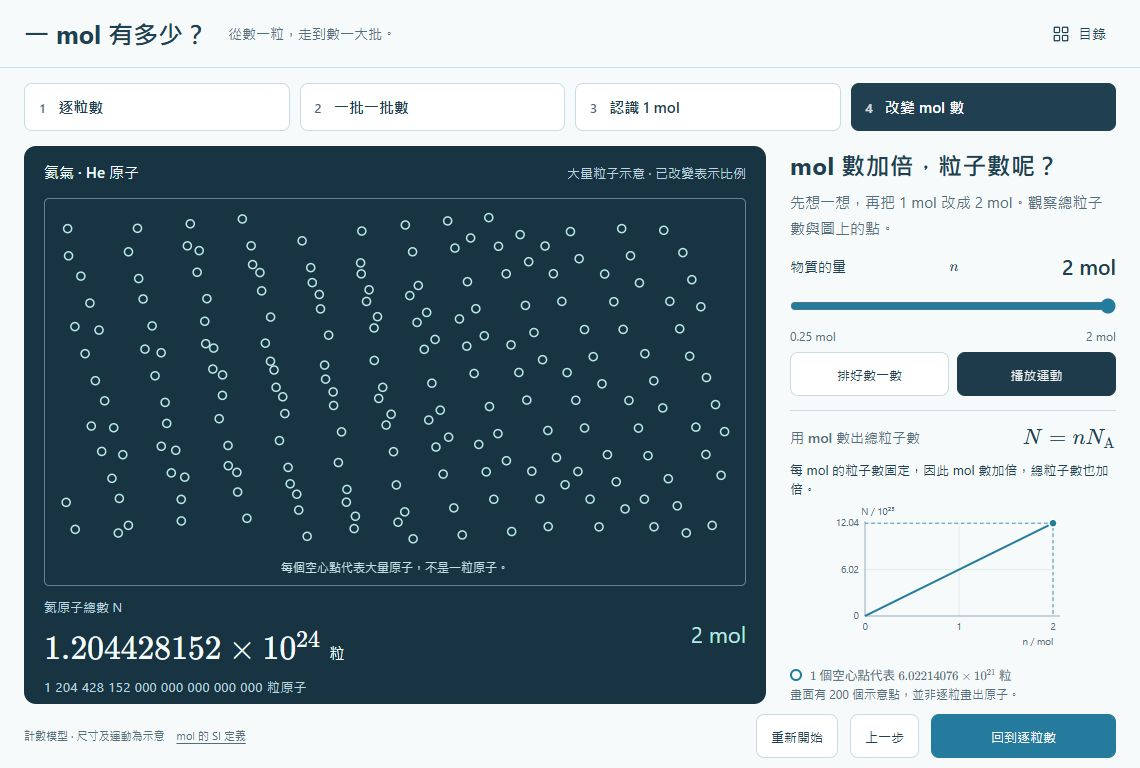
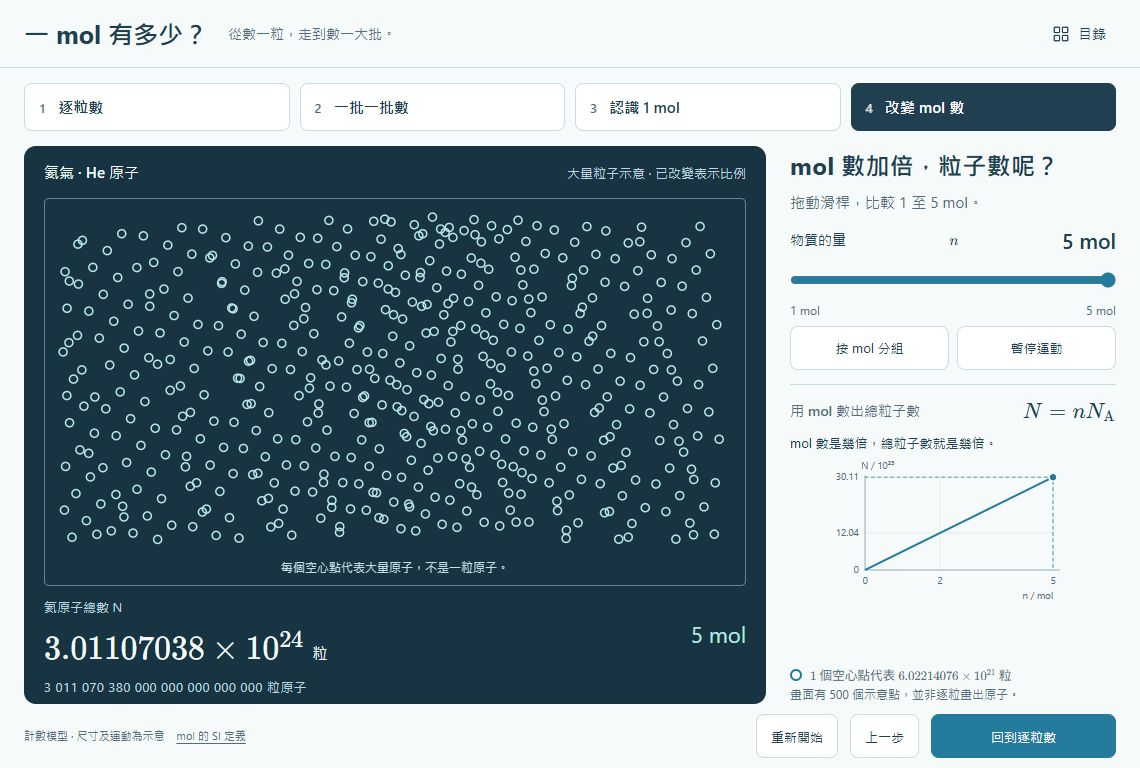
feat(gas-mole): 加入粒子分組並擴展至 5 mol

diff --git a/gas-mole/app.js b/gas-mole/app.js
@@ -5,12 +5,12 @@
   const canvas = $('gas');
   const ctx = canvas.getContext('2d');
   const reduced = matchMedia('(prefers-reduced-motion: reduce)');
-  const state = { step: 0, atoms: 6, dozens: 1, quarters: 4, arranged: false, paused: reduced.matches, particles: [] };
+  const state = { step: 0, atoms: 6, dozens: 1, moles: 1, arranged: false, paused: reduced.matches, particles: [] };
   const lessons = [
     { title: '先數清楚：有多少粒？', intro: '加入一粒氦原子，看看總數怎樣變。原子一直在動，試試把它們排好。', evidence: '每加入一粒，總數加一', text: '這裏數的是氦原子。每一粒都算一次，不論它在哪裏、怎樣移動。', next: '試試一批一批數' },
-    { title: '換一種數法：每打 12 粒', intro: '逐粒數太慢，可以每 12 粒算一打。加入一打，總數增加多少？', evidence: '每一批的數量固定', text: '「打」是計數單位。2 打就是 2 批，每批 12 粒，共 24 粒。', next: '把一批換成 1 mol' },
+    { title: '換一種數法：每打 12 粒', intro: '每 12 粒是一打。加入一打，觀察總數；也可切換分組計數。', evidence: '每一批的數量固定', text: '「打」是計數單位。2 打就是 2 批，每批 12 粒，共 24 粒。', next: '把一批換成 1 mol' },
     { title: '很大的一批，叫做 1 mol', intro: '氣體的原子數極大。科學上用摩爾（mol）表示物質的量，按固定的粒子數計算。', evidence: '1 mol 的定義', text: '1 mol 氦氣，恰好含有這麼多粒氦原子。這是單位的定義，數值是精確的。', next: '改變 mol 數看看' },
-    { title: 'mol 數加倍，粒子數呢？', intro: '先想一想，再把 1 mol 改成 2 mol。觀察總粒子數與圖上的點。', evidence: '用 mol 數出總粒子數', text: '每 mol 的粒子數固定，因此 mol 數加倍，總粒子數也加倍。', next: '回到逐粒數' }
+    { title: 'mol 數加倍，粒子數呢？', intro: '拖動滑桿，比較 1 至 5 mol。', evidence: '用 mol 數出總粒子數', text: 'mol 數是幾倍，總粒子數就是幾倍。', next: '回到逐粒數' }
   ];
   let current, frame, lastTime, width = 1, height = 1;
 
@@ -29,10 +29,10 @@
   }
 
   function render() {
-    current = M.snapshot(state.step, state.atoms, state.dozens, state.quarters);
+    current = M.snapshot(state.step, state.atoms, state.dozens, state.moles);
     syncParticles();
     const lesson = lessons[state.step];
-    document.querySelectorAll('[data-step]').forEach(button => {
+    document.querySelectorAll('.steps [data-step]').forEach(button => {
       const active = Number(button.dataset.step) === state.step;
       button.setAttribute('aria-pressed', String(active));
       if (active) button.setAttribute('aria-current', 'step');
@@ -54,9 +54,9 @@
     $('remove').textContent = state.step === 0 ? '減少 1 粒' : '減少 1 打';
     $('add').textContent = state.step === 0 ? '加入 1 粒' : '加入 1 打';
     $('remove').disabled = smallValue === 1;
-    $('add').disabled = smallValue === (state.step === 0 ? 24 : 4);
-    $('control-caption').textContent = state.step === 0 ? '可放入 1 至 24 粒原子。' : '可放入 1 至 4 打；每打 12 粒。';
-    $('moles').value = state.quarters;
+    $('add').disabled = smallValue === (state.step === 0 ? 24 : 2);
+    $('control-caption').textContent = state.step === 0 ? '可放入 1 至 24 粒原子。' : '每打 12 粒；可放入 1 打或 2 打。';
+    $('moles').value = state.moles;
     $('moles').setAttribute('aria-valuetext', `${current.moles} mol`);
     $('mole-amount').textContent = `${current.moles} mol`;
     math($('n-symbol'), 'n');
@@ -72,17 +72,18 @@
     else $('legend-text').textContent = '1 個實心點 = 1 粒氦原子';
     $('representation-note').textContent = current.schematic ? `畫面有 ${current.dots} 個示意點，並非逐粒畫出原子。` : '原子放大顯示；畫面中的點數就是總粒子數。';
     $('view-label').textContent = current.schematic ? '大量粒子示意 · 已改變表示比例' : '逐粒表示';
-    $('scene-note').textContent = state.arranged ? (current.schematic ? '排好示意點只為計數，不表示原子聚成一團。' : state.step === 1 ? '虛線只用來分組計數，氣體不會自行分成一打。' : '排好只為方便計數，不是原子的實際排列。') : current.schematic ? '每個空心點代表大量原子，不是一粒原子。' : '每個實心點是一粒氦原子。';
-    $('arrange').textContent = state.arranged ? '返回氣體運動' : '排好數一數';
+    $('scene-note').textContent = state.arranged ? (current.groups ? '虛線框只用來分組計數，不表示氣體聚成一團。' : '排好只為方便計數，不是原子的實際排列。') : current.schematic ? '每個空心點代表大量原子，不是一粒原子。' : '每個實心點是一粒氦原子。';
+    $('arrange').textContent = state.arranged ? '返回氣體運動' : state.step === 0 ? '排好數一數' : current.schematic ? '按 mol 分組' : '按打分組';
     $('arrange').setAttribute('aria-pressed', String(state.arranged));
     $('pause').textContent = state.paused ? '播放運動' : '暫停運動';
     $('pause').setAttribute('aria-pressed', String(state.paused));
     $('pause').disabled = state.arranged;
-    canvas.setAttribute('aria-label', `氦氣：${current.count} 粒原子。${current.schematic ? `${current.dots} 個空心點按比例代表大量原子。` : '每個實心點代表一粒原子。'}${state.arranged ? '目前排好計數。' : '目前為氣體運動視圖。'}`);
-    const graphX = n => 45 + 235 * n / 2;
-    const graphY = count => 140 - 116 * Number(count) / Number(2n * M.AVOGADRO);
+    const groupDescription = current.groups ? `${current.groups} 個框，每框 ${current.schematic ? '1 mol，以 100 個空心點代表大量原子' : '1 打，共 12 粒原子'}。` : '目前排好計數。';
+    canvas.setAttribute('aria-label', `氦氣：${current.count} 粒原子。${current.schematic ? `${current.dots} 個空心點按比例代表大量原子。` : '每個實心點代表一粒原子。'}${state.arranged ? groupDescription : '目前為氣體運動視圖。'}`);
+    const graphX = n => 45 + 235 * n / 5;
+    const graphY = count => 140 - 116 * Number(count) / Number(5n * M.AVOGADRO);
     const x = graphX(current.moles), y = graphY(current.count);
-    $('graph-line').setAttribute('d', `M45 140L${graphX(2)} ${graphY(M.snapshot(3, 6, 1, 8).count)}`);
+    $('graph-line').setAttribute('d', `M45 140L${graphX(5)} ${graphY(M.snapshot(3, 6, 1, 5).count)}`);
     $('graph-guide').setAttribute('d', `M45 ${y}H${x}V140`);
     $('graph-point').setAttribute('cx', x);
     $('graph-point').setAttribute('cy', y);
@@ -93,29 +94,60 @@
 
   function draw() {
     ctx.clearRect(0, 0, width, height);
+    if (width < 1 || height < 1) return;
+    if (state.arranged && current.groups) { drawGroups();return; }
     const pad = current.schematic ? 18 : 26;
     const usableW = width - 2 * pad, usableH = height - 2 * pad - 26;
-    const columns = current.schematic ? 20 : state.step === 1 ? 12 : 6;
+    const columns = current.schematic ? 20 : 6;
     const rows = Math.ceil(current.dots / columns);
     const cellW = usableW / columns, cellH = Math.min(usableH / Math.max(rows, 3), 55);
     const top = pad + (usableH - cellH * rows) / 2;
-    if (state.arranged && state.step === 1) {
-      ctx.strokeStyle = '#668390';
-      ctx.setLineDash([4, 5]);
-      for (let row = 0; row < rows; row++) ctx.strokeRect(pad, top + row * cellH + 3, usableW, cellH - 6);
-      ctx.setLineDash([]);
-    }
     const radius = current.schematic ? Math.max(2.5, Math.min(4, cellW * .22)) : Math.max(4, Math.min(8, cellW * .28));
     state.particles.forEach((p, i) => {
       const x = state.arranged ? pad + (i % columns + .5) * cellW : pad + p.x * usableW;
       const y = state.arranged ? top + (Math.floor(i / columns) + .5) * cellH : pad + p.y * usableH;
-      ctx.beginPath();ctx.arc(x, y, radius, 0, Math.PI * 2);
-      if (current.schematic) { ctx.strokeStyle = '#b9e8e7';ctx.lineWidth = 1.5;ctx.stroke(); }
-      else { ctx.fillStyle = '#b9e8e7';ctx.fill(); }
+      drawParticle(x, y, radius);
       if (state.arranged && state.step === 0) {
         ctx.fillStyle = '#bcd5df';ctx.font = '11px "Segoe UI",sans-serif';ctx.textAlign = 'center';ctx.fillText(String(i + 1), x, y + radius + 15);
       }
     });
+  }
+
+  function drawParticle(x, y, radius) {
+    ctx.beginPath();ctx.arc(x, y, radius, 0, Math.PI * 2);
+    if (current.schematic) { ctx.strokeStyle = '#b9e8e7';ctx.lineWidth = 1.5;ctx.stroke(); }
+    else { ctx.fillStyle = '#b9e8e7';ctx.fill(); }
+  }
+
+  function drawGroups() {
+    const gap = 18;
+    const groupColumns = Math.min(current.groups, 3);
+    const groupRows = Math.ceil(current.groups / groupColumns);
+    const slots = Math.max(2, groupColumns);
+    const boxW = Math.min(260, (width - 48 - (slots - 1) * gap) / slots);
+    const boxH = Math.min(276, (height - 70 - (groupRows - 1) * gap) / groupRows);
+    if (boxW <= 36 || boxH <= 64) return;
+    const top = (height - 30 - groupRows * boxH - (groupRows - 1) * gap) / 2;
+    const columns = current.schematic ? 10 : 4;
+    const rows = current.dotsPerGroup / columns;
+    const cellW = (boxW - 36) / columns, cellH = (boxH - 64) / rows;
+    const radius = Math.min(current.schematic ? 4 : 8, cellW * .28, cellH * .28);
+    for (let group = 0; group < current.groups; group++) {
+      const row = Math.floor(group / groupColumns);
+      const groupsInRow = Math.min(groupColumns, current.groups - row * groupColumns);
+      const left = (width - groupsInRow * boxW - (groupsInRow - 1) * gap) / 2;
+      const x = left + (group % groupColumns) * (boxW + gap);
+      const y = top + row * (boxH + gap);
+      ctx.strokeStyle = '#8cabb6';ctx.lineWidth = 1.2;ctx.setLineDash([5, 5]);
+      ctx.strokeRect(x, y, boxW, boxH);ctx.setLineDash([]);
+      ctx.textAlign = 'center';ctx.fillStyle = '#f3fbfb';ctx.font = '600 18px "Segoe UI","Microsoft JhengHei",sans-serif';
+      ctx.fillText(current.schematic ? '1 mol' : '1 打', x + boxW / 2, y + 23);
+      ctx.fillStyle = '#bcd5df';ctx.font = '12px "Segoe UI","Microsoft JhengHei",sans-serif';
+      ctx.fillText(current.schematic ? '100 個示意點' : '12 粒原子', x + boxW / 2, y + 41);
+      for (let i = 0; i < current.dotsPerGroup; i++) {
+        drawParticle(x + 18 + (i % columns + .5) * cellW, y + 52 + (Math.floor(i / columns) + .5) * cellH, radius);
+      }
+    }
   }
 
   function schedule() {
@@ -130,14 +162,14 @@
   }
 
   function changeStep(step) { state.step = step;state.arranged = false;lastTime = undefined;render(); }
-  document.querySelectorAll('[data-step]').forEach(button => button.addEventListener('click', () => changeStep(Number(button.dataset.step))));
+  document.querySelectorAll('.steps [data-step]').forEach(button => button.addEventListener('click', () => changeStep(Number(button.dataset.step))));
   $('previous').addEventListener('click', () => changeStep(state.step - 1));
   $('next').addEventListener('click', () => changeStep((state.step + 1) % 4));
   for (const [id, delta] of [['add', 1], ['remove', -1]]) $(id).addEventListener('click', () => { if (state.step === 0) state.atoms += delta;else state.dozens += delta;render(); });
-  $('moles').addEventListener('input', event => { state.quarters = Number(event.target.value);render(); });
+  $('moles').addEventListener('input', event => { state.moles = Number(event.target.value);render(); });
   $('arrange').addEventListener('click', () => { state.arranged = !state.arranged;render(); });
   $('pause').addEventListener('click', () => { state.paused = !state.paused;render(); });
-  $('reset').addEventListener('click', () => { Object.assign(state, { step: 0, atoms: 6, dozens: 1, quarters: 4, arranged: false, paused: reduced.matches, particles: [] });lastTime = undefined;render(); });
+  $('reset').addEventListener('click', () => { Object.assign(state, { step: 0, atoms: 6, dozens: 1, moles: 1, arranged: false, paused: reduced.matches, particles: [] });lastTime = undefined;render(); });
   reduced.addEventListener('change', event => { if (event.matches) { state.paused = true;render(); } });
   document.addEventListener('visibilitychange', () => { lastTime = undefined;schedule(); });
   new ResizeObserver(() => {

diff --git a/gas-mole/index.html b/gas-mole/index.html
@@ -40,6 +40,7 @@ button.primary{background:var(--accent);color:white;border-color:var(--accent)}
 .graph{width:100%;height:172px;display:block;margin-top:5px}.graph text{font:12px "Segoe UI","Microsoft JhengHei",sans-serif;fill:var(--muted)}.graph .axis{stroke:#7f99a5;fill:none}.graph .grid{stroke:#dce7eb;fill:none}.graph .curve{stroke:var(--accent);stroke-width:2.5;fill:none}.graph .guide{stroke:var(--accent);stroke-dasharray:4 4;fill:none}.graph .point{fill:var(--accent);stroke:white;stroke-width:2}
 .footer{display:flex;align-items:center;gap:12px;padding:8px 24px}.footer .footnote{display:flex;align-items:center;gap:12px;font-size:11px;line-height:1.6;color:var(--muted);margin-right:auto}.footnote a{display:inline-flex;align-items:center;min-height:44px;color:var(--muted);text-underline-offset:3px}.footer button{font-size:13px}.next{min-width:185px}
 .lesson[data-step="3"] .controls{margin-top:10px}.lesson[data-step="3"] .view-actions{margin-top:8px}
+.lesson[data-step="3"] .intro{min-height:0}
 .lesson[data-step="3"] .evidence{display:grid;grid-template-columns:1fr auto;align-items:center;margin-top:14px;padding-top:10px}
 .lesson[data-step="3"] .equation{margin:0;font-size:21px}.lesson[data-step="3"] .evidence p{grid-column:1/-1;font-size:13px;margin-top:7px;line-height:1.5}
 .lesson[data-step="3"] .graph{grid-column:1/-1;height:144px}.lesson[data-step="3"] .legend{padding-top:8px}
@@ -67,15 +68,15 @@ button.primary{background:var(--accent);color:white;border-color:var(--accent)}
       <header><h2 id="lesson-title"></h2><p class="intro" id="intro"></p></header>
       <div class="controls">
         <div id="small-controls"><div class="control-row"><button id="remove">減少 1 粒</button><output id="small-amount"></output><button id="add">加入 1 粒</button></div><p class="control-caption" id="control-caption"></p></div>
-        <div id="mole-controls" hidden><label class="range-label" for="moles">物質的量 <span id="n-symbol"></span><output id="mole-amount" for="moles"></output></label><input id="moles" type="range" min="1" max="8" value="4" step="1" aria-valuetext="1 mol"><div class="range-ends"><span>0.25 mol</span><span>2 mol</span></div></div>
+        <div id="mole-controls" hidden><label class="range-label" for="moles">物質的量 <span id="n-symbol"></span><output id="mole-amount" for="moles"></output></label><input id="moles" type="range" min="1" max="5" value="1" step="1" aria-valuetext="1 mol"><div class="range-ends"><span>1 mol</span><span>5 mol</span></div></div>
         <div id="definition" hidden><div class="unit-pair"><span>每 1 打</span><strong>12 粒</strong></div><div class="unit-pair"><span>每 1 mol</span><strong id="definition-count"></strong></div><p class="control-caption">都是按固定數目來計數，只是每一份的數量不同。</p></div>
         <div class="view-actions"><button id="arrange" aria-pressed="false">排好數一數</button><button id="pause" aria-pressed="false">暫停運動</button></div>
       </div>
       <div class="evidence"><h3 id="evidence-title"></h3><div class="equation" id="equation"></div><p id="evidence-text"></p>
         <svg class="graph" id="graph" viewBox="0 0 310 180" role="img" aria-labelledby="graph-title" hidden>
           <title id="graph-title">粒子數與物質的量成正比</title>
-          <text x="40" y="14">N / 10²³</text><path class="grid" d="M45 82H280M45 24H280M162.5 24V140M280 24V140"/><path class="axis" d="M45 22V140H288"/>
-          <text x="37" y="144" text-anchor="end">0</text><text x="37" y="86" text-anchor="end">6.02</text><text x="37" y="28" text-anchor="end">12.04</text><text x="45" y="158" text-anchor="middle">0</text><text x="162.5" y="158" text-anchor="middle">1</text><text x="280" y="158" text-anchor="middle">2</text><text x="280" y="176" text-anchor="end">n / mol</text>
+          <text x="40" y="14">N / 10²³</text><path class="grid" d="M45 93.6H280M45 24H280M139 24V140M280 24V140"/><path class="axis" d="M45 22V140H288"/>
+          <text x="37" y="144" text-anchor="end">0</text><text x="37" y="97.6" text-anchor="end">12.04</text><text x="37" y="28" text-anchor="end">30.11</text><text x="45" y="158" text-anchor="middle">0</text><text x="139" y="158" text-anchor="middle">2</text><text x="280" y="158" text-anchor="middle">5</text><text x="280" y="176" text-anchor="end">n / mol</text>
           <path id="graph-line" class="curve"/><path id="graph-guide" class="guide"/><circle id="graph-point" class="point" r="5"/>
         </svg>
       </div>

diff --git a/gas-mole/test-model.js b/gas-mole/test-model.js
@@ -4,23 +4,34 @@ const assert = require('node:assert/strict');
 const M = require('./model.js');
 assert.equal(M.AVOGADRO.toString(), '602214076000000000000000');
 for (let atoms = 1; atoms <= 24; atoms++) {
-  const s = M.snapshot(0, atoms, 1, 4);
+  const s = M.snapshot(0, atoms, 1, 1);
   assert.equal(s.count, BigInt(atoms));
   assert.equal(s.dots, atoms);
   assert.equal(s.atomsPerDot, 1n);
 }
-for (let dozens = 1; dozens <= 4; dozens++) assert.equal(M.snapshot(1, 6, dozens, 4).count, BigInt(12 * dozens));
-for (let q = 1; q <= 8; q++) {
-  const s = M.snapshot(3, 6, 1, q);
-  assert.equal(s.count, M.AVOGADRO * BigInt(q) / 4n);
-  assert.equal(s.moles, q / 4);
-  assert.equal(s.count, BigInt(s.dots) * s.atomsPerDot, '示意點與真實總數必須一致');
-  assert.equal(M.snapshot(2, 6, 1, q).count, M.AVOGADRO, '定義步驟永遠顯示 1 mol');
+for (const groups of [1, 2]) {
+  const dozen = M.snapshot(1, 6, groups, 1);
+  assert.equal(dozen.count, BigInt(12 * groups));
+  assert.equal(dozen.groups, groups);
+  assert.equal(dozen.dotsPerGroup, 12);
+  assert.equal(dozen.groups * dozen.dotsPerGroup, dozen.dots);
 }
-assert.equal(M.snapshot(3, 6, 1, 8).count, 2n * M.snapshot(3, 6, 1, 4).count);
+for (const groups of [1, 2, 3, 4, 5]) {
+  const s = M.snapshot(3, 6, 1, groups);
+  assert.equal(s.count, M.AVOGADRO * BigInt(groups));
+  assert.equal(s.moles, groups);
+  assert.equal(s.groups, groups);
+  assert.equal(s.dotsPerGroup, 100);
+  assert.equal(s.groups * s.dotsPerGroup, s.dots);
+  assert.equal(s.count, BigInt(s.dots) * s.atomsPerDot, '示意點與真實總數必須一致');
+  assert.equal(M.snapshot(2, 6, 1, groups).count, M.AVOGADRO, '定義步驟永遠顯示 1 mol');
+  assert.equal(M.snapshot(2, 6, 1, groups).groups, 1);
+}
+assert.equal(M.snapshot(3, 6, 1, 2).count, 2n * M.snapshot(3, 6, 1, 1).count);
+assert.equal(M.snapshot(3, 6, 1, 5).count, 3011070380000000000000000n);
 assert.equal(M.scientific(M.AVOGADRO), '6.02214076\\times 10^{23}');
 assert.equal(M.scientific(24n), '24');
-for (const args of [[4, 6, 1, 4], [0, 0, 1, 4], [1, 6, 5, 4], [3, 6, 1, 0], [3, 6, 1, 9], [3, 6, 1, NaN]]) assert.throws(() => M.snapshot(...args), RangeError);
+for (const args of [[4, 6, 1, 1], [0, 0, 1, 1], [1, 6, 3, 1], [1, 6, 1.5, 1], [3, 6, 1, 0], [3, 6, 1, .5], [3, 6, 1, 1.5], [3, 6, 1, 6], [3, 6, 1, NaN]]) assert.throws(() => M.snapshot(...args), RangeError);
 const particles = [{ x: .99, y: .01, vx: .2, vy: -.3 }];
 const speedSquared = particles[0].vx ** 2 + particles[0].vy ** 2;
 M.advance(particles, .2);
@@ -30,4 +41,4 @@ for (let i = 0; i < 500; i++) {
   assert.ok(particles[0].x >= 0 && particles[0].x <= 1 && particles[0].y >= 0 && particles[0].y <= 1);
   assert.equal(particles[0].vx ** 2 + particles[0].vy ** 2, speedSquared);
 }
-console.log('通過：逐粒／打計數、mol 精確換算、示意比例、加倍關係、輸入邊界、運動邊界及速率守恆。');
+console.log('通過：逐粒計數、打與 mol 完整分組、示意比例、加倍關係、拒絕非完整組、運動邊界及速率守恆。');

diff --git a/gas-mole/model.js b/gas-mole/model.js
@@ -3,21 +3,23 @@
   const AVOGADRO = 602214076000000000000000n;
   const DOTS_PER_MOLE = 100;
 
-  function snapshot(step, atoms, dozens, quarters) {
+  function snapshot(step, atoms, dozens, moles) {
     if (!Number.isInteger(step) || step < 0 || step > 3 ||
         !Number.isInteger(atoms) || atoms < 1 || atoms > 24 ||
-        !Number.isInteger(dozens) || dozens < 1 || dozens > 4 ||
-        !Number.isInteger(quarters) || quarters < 1 || quarters > 8) {
+        !Number.isInteger(dozens) || dozens < 1 || dozens > 2 ||
+        !Number.isInteger(moles) || moles < 1 || moles > 5) {
       throw new RangeError('計數設定超出範圍');
     }
     const schematic = step >= 2;
-    const n = step === 2 ? 1 : quarters / 4;
-    const count = schematic ? AVOGADRO * BigInt(step === 2 ? 4 : quarters) / 4n
+    const n = step === 2 ? 1 : moles;
+    const count = schematic ? AVOGADRO * BigInt(n)
       : BigInt(step === 0 ? atoms : dozens * 12);
     return {
       step, schematic, count,
       moles: schematic ? n : Number(count) / Number(AVOGADRO),
       dots: schematic ? n * DOTS_PER_MOLE : Number(count),
+      groups: step === 0 ? 0 : schematic ? n : dozens,
+      dotsPerGroup: schematic ? DOTS_PER_MOLE : 12,
       atomsPerDot: schematic ? AVOGADRO / BigInt(DOTS_PER_MOLE) : 1n
     };
   }
